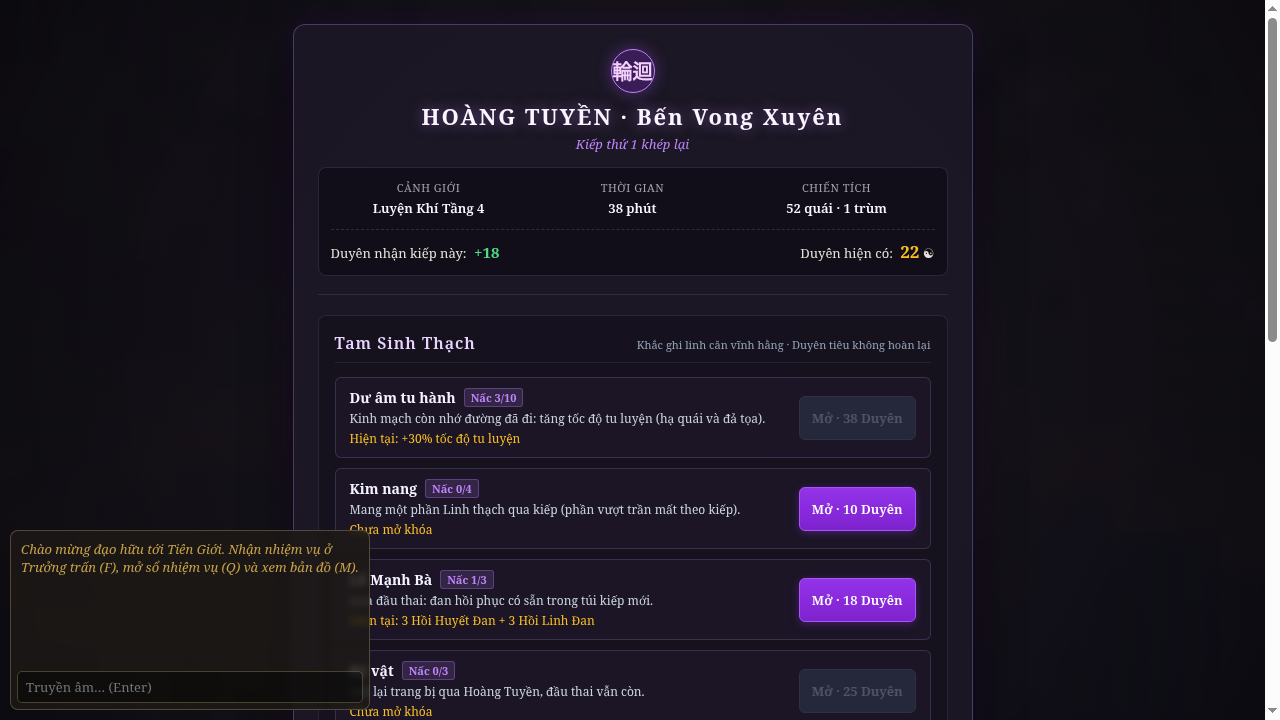
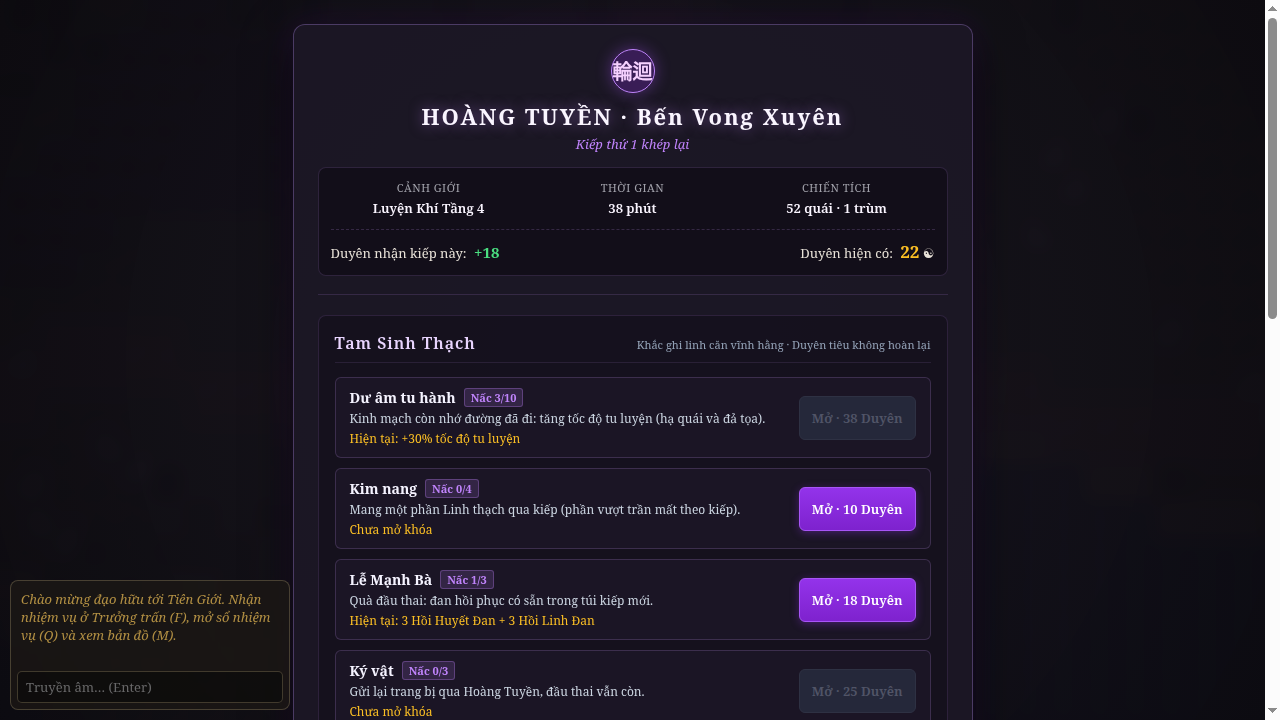
fix(client): sửa lint, vị trí chat Hoàng Tuyền, setKiep và bổ sung ảnh đầu thai (Refs #150)

diff --git a/client/src/style.css b/client/src/style.css
@@ -2375,7 +2375,7 @@ body.reconnecting #btn-pickup {
   letter-spacing: 0.5px;
 }
 
-/* Khi đang ở Hoàng Tuyền: ẩn HUD gameplay, chỉ giữ chat */
+/* Khi đang ở Hoàng Tuyền: ẩn HUD gameplay, chỉ giữ chat thu gọn không che chữ */
 body.in-limbo #hud-col-left,
 body.in-limbo #minimap-wrap,
 body.in-limbo #quickbar,
@@ -2391,6 +2391,19 @@ body.in-limbo #help {
 
 body.in-limbo #chat {
   z-index: 10001;
+  width: min(280px, 85vw);
+  max-width: 280px;
+  opacity: 0.88;
+  transition: opacity 0.2s ease;
+}
+
+body.in-limbo #chat:hover,
+body.in-limbo #chat:focus-within {
+  opacity: 1;
+}
+
+body.in-limbo #chat-log {
+  height: 80px;
 }
 
 /* Màn hình Hoàng Tuyền */
@@ -2408,7 +2421,7 @@ body.in-limbo #chat {
   align-items: flex-start;
   overflow-y: auto;
   -webkit-overflow-scrolling: touch;
-  padding: 24px 16px 80px;
+  padding: 24px 16px 200px;
   box-sizing: border-box;
   backdrop-filter: blur(8px);
 }
@@ -2845,7 +2858,13 @@ body.in-limbo #chat {
 /* Responsive di động cho Hoàng Tuyền */
 @media (max-width: 640px) {
   .limbo-overlay {
-    padding: 16px 8px 60px;
+    padding: 16px 8px 240px;
+  }
+  body.in-limbo #chat {
+    width: min(240px, 75vw);
+  }
+  body.in-limbo #chat-log {
+    height: 60px;
   }
   .limbo-box {
     padding: 16px 12px;

diff --git a/client/src/scenes/WorldScene.ts b/client/src/scenes/WorldScene.ts
@@ -744,6 +744,7 @@ export class WorldScene extends Phaser.Scene {
   }
 
   private onLimbo(m: LimboMsg) {
+    ui.setKiep(m.soul.kiep);
     ui.showLimbo(m, {
       onBuy: (id: string) => {
         const msg: SoulBuyMsg = { id };
@@ -773,7 +774,10 @@ export class WorldScene extends Phaser.Scene {
     this.room.onMessage("partyInvited", (m: PartyInvitedMsg) => ui.onPartyInvited(m));
     this.room.onMessage("wallet", (m: WalletMsg) => ui.onWallet(m));
     this.room.onMessage("limbo", (m: LimboMsg) => this.onLimbo(m));
-    this.room.onMessage("soul", (m: SoulMsg) => ui.updateSoul(m));
+    this.room.onMessage("soul", (m: SoulMsg) => {
+      ui.updateSoul(m);
+      ui.setKiep(m.kiep);
+    });
     this.room.onMessage("reborn", (m: RebornMsg) => ui.showReborn(m.kiep));
     if (isInitial) {
       ui.chat({

diff --git a/client/src/ui.ts b/client/src/ui.ts
@@ -49,7 +49,6 @@ import {
   SHOP_MAX_QTY,
   type WalletMsg,
   UNLOCKS,
-  UNLOCK_BY_ID,
   ORIGINS,
   DEFAULT_ORIGIN,
   ORIGIN_BUY_PREFIX,
@@ -57,8 +56,6 @@ import {
   keepSlotsOf,
   nextCost,
   type LimboMsg,
-  type SoulMsg,
-  type RebornMsg,
   type RebirthChoice,
   type SoulView,
 } from "@tien-gioi/shared";
